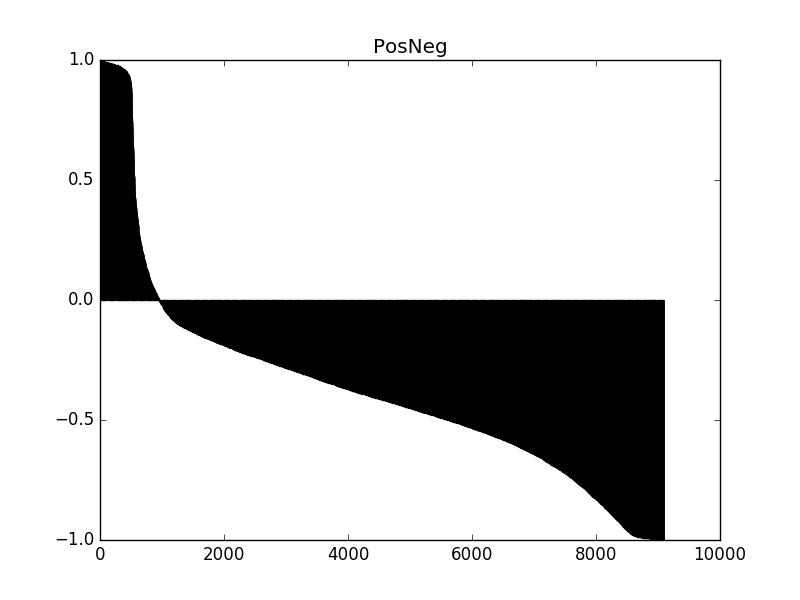
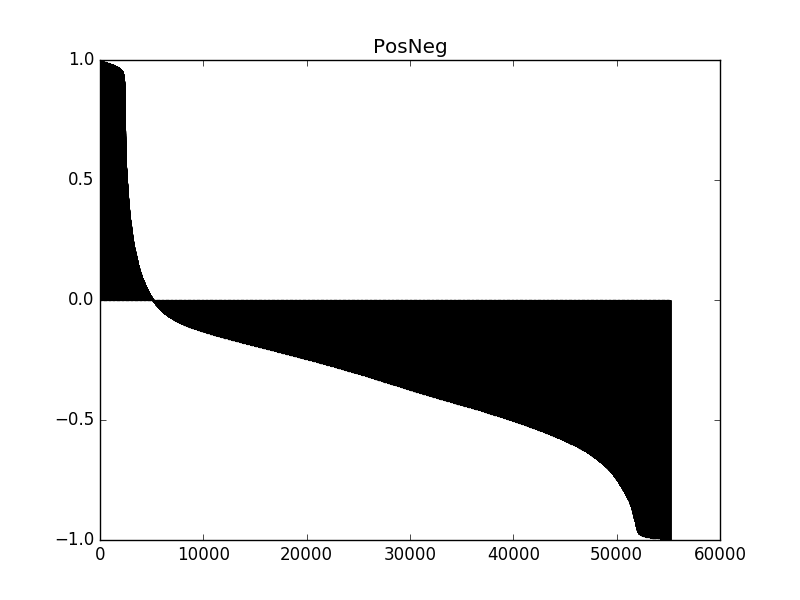
Add all, K-means method added! My local PC does not have enough memory(8GB)

diff --git a/reader.py b/reader.py
@@ -7,6 +7,8 @@ import sys
 import MeCab as Mecab
 from collections import defaultdict
 import math
+import numpy as np
+from sklearn.cluster import KMeans as kmeans
 
 # class for reading Tweeter data for any given file 
 class TweetReader():
@@ -26,6 +28,11 @@ class TweetReader():
       self.total_noun, self.total_adj, self.total_verb = 0, 0, 0
       self.total_words = 0
       self.corpList = []
+      self.existCount, self.totalCount = 0, 0
+      self.dictIDWord, self.dictWordID = {}, {}
+      self.dictIDProb, self.dictIDNum, self.dictNumFeat = {}, {}, {}
+      self.features = np.array([])
+      self.clf = kmeans(n_clusters=2, init = 'random', n_init=10, max_iter=30, tol=1e-05, random_state=0) 
 
    # This method read lines in the input file and store it into class variable called self.lines
    def read_lines(self, filename):
@@ -227,27 +234,61 @@ class TweetReader():
          self.corpList.append(line.replace('\n','').split(':'))
 
    def corpus_check(self):
-      posCount = 0
-      negCount = 0
-      probList = []
       for c in self.corpList:
          #probList.append(float(c[3]))
          if c[0] in self.word_count:
-            posCount += 1
-         else:
-            negCount += 1
-      """plt.bar(range(len(probList)), probList)
-      plt.title('PosNeg')
-      plt.savefig('corpora/posneg.png')"""
-      print('Num. of exist words: ' + str(posCount))
-      print('Num. of total words: ' + str(posCount + negCount))
+            self.dictWordID.update({c[0]:self.existCount})
+            self.dictIDWord.update({str(self.existCount):c[0]})
+            self.dictIDProb.update({str(self.existCount):float(c[3])})
+            self.existCount += 1
+         #else:
+         #   totalCount += 1
+
+   def set_feat(self):
+      num = 0
+      for idNum in self.ids:
+         if idNum and (idNum not in self.dictIDNum):
+            self.dictIDNum.update({idNum:num})
+            array = np.zeros(len(self.dictIDWord))
+            self.dictNumFeat.update({num:array})
+            num += 1
+
+   def fill_feat(self):
+      for i, text in enumerate(self.texts):
+         if text and self.ids[i]:
+            for elem in self.tagger.parse(text.replace(' ','')).split('\n'):
+               try:
+                  word = elem.split('\t')[2]
+                  wIDNum = self.dictWordID[word]
+                  uID = self.ids[i]
+                  uIDNum = self.dictIDNum[uID]
+                  self.dictNumFeat[uIDNum][wIDNum] = self.dictIDProb[str(wIDNum)]
+               except(IndexError, KeyError):
+                  continue
+      featArr = []
+      for key, value in self.dictNumFeat.items():
+         featArr.append(value)
+      self.features = np.array(featArr)
+
+   def kmeans_fit(self, n_dim=3):
+      print('Start leaning!')
+      self.clf.fit(self.features)
+      print('Finished learning!')
+      labels = self.clf._labels_
+      for label, feature in zip(labels, self.features):
+         print(label, feature, feature.sum())
 
 if __name__=='__main__':
    reader = TweetReader()
    reader.read_lines(sys.argv[1])
+   reader.getIDs()
    reader.getContexts()
    reader.word_counter()
    reader.read_corpus()
    reader.corpus_check()
+   reader.set_feat()
+   reader.fill_feat()
+   reader.kmeans_fit()
+   #print(reader.dictIDWord)
    #print(reader.word_count)
    #reader.word_ranker(reader.word_count, sys.argv[2])

diff --git a/tfidf.py b/tfidf.py
@@ -28,7 +28,7 @@ def getIDF(self, word):
    n = len(self.contexts)
    return math.log2(n/df)
 
-166    def getTFIDF(self, word, text):
-167       tf = self.getTF(word, text)
-168       idf = self.getIDF(word)
-169       return tf*idf
+def getTFIDF(self, word, text):
+   tf = self.getTF(word, text)
+   idf = self.getIDF(word)
+   return tf*idf
